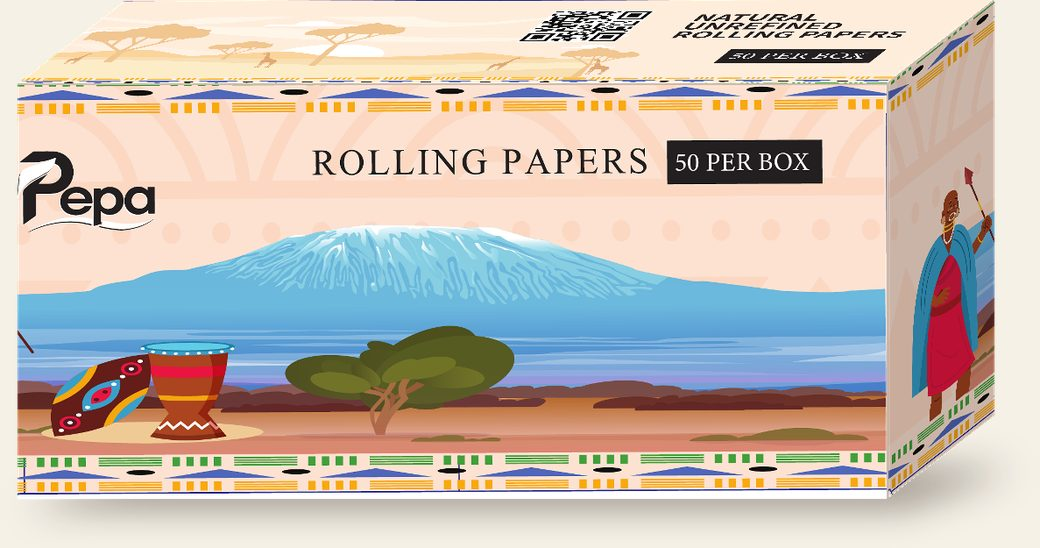
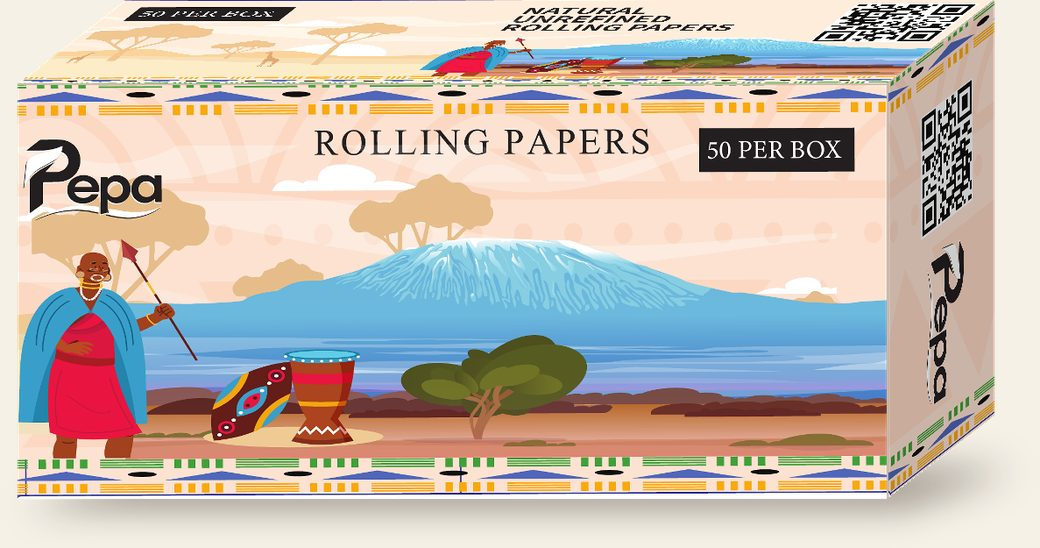
Rebuild from the revised die-line — 50 leaves, not 32
The updated artwork changes the count on the box from 32 LEAVES to 50,
which brings it back in line with the figures he gave in the first
place: 50 a booklet, 50 booklets a box, 2,500 papers a box. The page
follows the box, as before.

The scene on the two 155 x 48 faces now carries the Maasai and
Kilimanjaro rather than plain savannah, and a third QR has appeared on
one end panel. All three decode to HTTPS://THE-HAOLAB.VERCEL.APP/P and
print about 21 mm across, comfortably above the size where a cheap
phone starts failing.

Folds have shifted a few millimetres; the carton is unchanged at
155 x 74 x 48 mm. Every script now reads the revised file.

diff --git a/server/src/services/productPage.service.js b/server/src/services/productPage.service.js
@@ -45,10 +45,10 @@ const DEFAULTS = {
         { label: 'Colour', value: 'Brown' },
         { label: 'Size', value: '70 × 36 mm' },
         { label: 'Type', value: 'Unfiltered' },
-        // Straight off the printed box: it says 32 LEAVES and 50 PER BOX.
-        { label: 'Leaves per booklet', value: '32' },
+        // Straight off the printed box: it says 50 LEAVES and 50 PER BOX.
+        { label: 'Leaves per booklet', value: '50' },
         { label: 'Booklets per box', value: '50' },
-        { label: 'Papers per box', value: '1,600' },
+        { label: 'Papers per box', value: '2,500' },
       ],
     },
   ],

diff --git a/docs/pepa-designer-brief.py b/docs/pepa-designer-brief.py
@@ -111,13 +111,13 @@ y = para(d, M, y, [
     "It must encode exactly:  HTTPS://THE-HAOLAB.VERCEL.APP/P",
     "Keep it UPPERCASE. Lower case forces the code into byte mode, which needs more modules",
     "and makes every module smaller at the same printed size.",
-    "Print it 15 mm or larger, with 3 mm clear on all four sides. It is ~17 mm today, which is good.",
+    "Print it 15 mm or larger, with 3 mm clear on all four sides. It is ~21 mm today, which is good.",
     "It can live on a 48 mm side or on the back — anywhere it keeps that size and clear space.",
 ])
 y += int(4 * MM)
 d.text((M, y), "Also still to place", font=FT(13, True), fill=INK); y += int(8 * MM)
 para(d, M, y, [
-    "‘32 LEAVES’ — it is on the current artwork and must survive the re-layout.",
+    "‘50 LEAVES’ — it is on the current artwork and must survive the re-layout.",
     "Final files to be set from the original vector, not from any image supplied for reference.",
 ])
 pages.append(p)

diff --git a/docs/pepa-designer-pack.py b/docs/pepa-designer-pack.py
@@ -31,7 +31,7 @@ p = Image.new("RGB", (A4W, A4H), BG); d = ImageDraw.Draw(p)
 M = int(18 * MM)
 d.text((M, M), "Pepa — box artwork", font=FT(26, True), fill=INK)
 d.text((M, M + int(11 * MM)),
-       "155 × 74 × 48 mm · 50 booklets per box · 32 leaves per booklet",
+       "155 × 74 × 48 mm · 50 booklets per box · 50 leaves per booklet",
        font=FT(12), fill=SOFT)
 
 body = [
@@ -83,7 +83,7 @@ pages.append(p2)
 
 # ── one page per face, at true size ─────────────────────────────────────────
 for label, key, w_mm, h_mm in FACES:
-    src = Image.open(SP + f"/die2/{key}.png").convert("RGB")
+    src = Image.open(SP + f"/die3/{key}.png").convert("RGB")
     target = (int(round(w_mm * MM)), int(round(h_mm * MM)))
     face = src.resize(target, Image.LANCZOS)
     face.save(f"{OUT}/faces/pepa-{label.lower().replace(' ', '-')}-{w_mm}x{h_mm}mm.png",

diff --git a/docs/pepa-box-mockup.py b/docs/pepa-box-mockup.py
@@ -44,7 +44,7 @@ def place(canvas, face, quad, shade=1.0):
     ImageDraw.Draw(mask).polygon(quad, fill=255)
     canvas.paste(warped, (0, 0), mask)
 
-F = {n: Image.open(SP + f"/die2/{n}.png") for n in
+F = {n: Image.open(SP + f"/die3/{n}.png") for n in
      ("front", "back", "top", "bottom", "end", "end2")}
 
 def render(face_img, lid_img, end_img, scale=6.4):

diff --git a/docs/pepa-all-sides.py b/docs/pepa-all-sides.py
@@ -31,7 +31,7 @@ def fit(img, box_w):
 view_t = [fit(v, COL) for v in views]
 flat = []
 for label, dims, key in FACES:
-    im = Image.open(SP + f"/die2/{key}.png").convert("RGB")
+    im = Image.open(SP + f"/die3/{key}.png").convert("RGB")
     w = round(im.width / (300 / 25.4) * PPM)
     flat.append((label, dims, fit(im, min(w, COL))))
 
